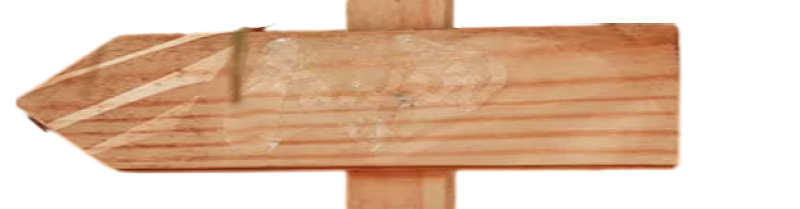
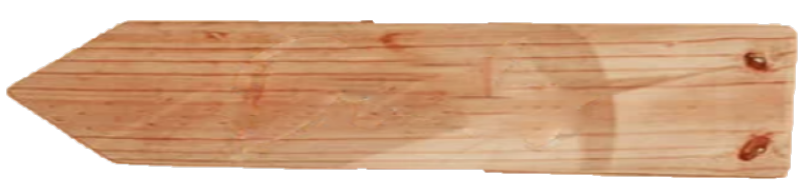
Home:complete UI ,,, FloatedImages:init and complete and add it to Home

diff --git a/src/components/Home.tsx b/src/components/Home.tsx
@@ -1,36 +1,55 @@
 // images
 import BG from '../assets/images/Root/mainBG2.png'
-import signsStand from '../assets/images/Root/woodenHolder.png'
+import signsStand from '../assets/images/Root/woodenHolder2.png'
 import signsArrow1 from '../assets/images/Root/signArrow1.png'
 import signsArrow2 from '../assets/images/Root/signArrow2.png'
-import signsArrow3 from '../assets/images/Root/signArrow3.png'
-import signsArrow4 from '../assets/images/Root/signArrow4.png'
+import signArrowTop from '../assets/images/Root/signArrow3.png'
+import FloatedItems from './FloatedItems'
+
 
 const Home = () => {
     return (
         <>
-        {/* background */}
-            <img className='fixed h-screen w-screen blur-sm' src={BG} alt="BG" />
-        {/*_____background____ */}
 
-        {/* Arrows Part */}
+{/* background */}
+            <img className='fixed h-screen z-0 w-screen blur-sm' src={BG} alt="BG" />
+{/*_____background____ */}
+
+{/* Arrows Part */}
             <main className='relative w-screen h-screen'>
                 <section>
-        {/* stand */}
-                    <img className='absolute z-10 w-1/2 h-full left-1/4 right-1/4' src={signsStand} alt="signsStand" />
+{/* stand */}
+                    <img className='absolute z-20 w-1/2 h-full left-1/4 right-1/4' src={signsStand} alt="signsStand" />
                 </section>
-        {/* ____stand___ */}
-        {/* Arrows */}
-                <section className='relative grid place-items-center z-20 w-full h-1/4'>
+{/* ____stand___ */}
+{/* Arrows */}
+                <section className='relative grid place-items-center z-30 w-full h-1/6'>
+                    <img className='absolute w-[800px] md:h-full h-full top-0 ' src={signArrowTop} alt="signsArrow1" />
+                    <p className='absolute md:text-5xl lg:text-2xl xl text-2xl drop-shadow-3xl text-center h-1/3 top-4 text_shadow  '>خوش اومدی <br/>کدوم قسمت از هنر ما رو میخای ببینی؟</p>
+                </section>
+                <section className='relative grid place-items-center z-30 w-full h-1/6 top-1/6'>
                     <img className='absolute w-[800px] md:h-full h-2/3 ' src={signsArrow1} alt="signsArrow1" />
-                    <p className='absolute '>دیزاین با بادکنک</p>
+                    <p className='absolute md:text-6xl lg:text-4xl text-3xl drop-shadow-3xl text_shadow '>دیزاین با بادکنک</p>
                 </section>
-                <section>دیزاین با گل</section>
-                <section>میوه آرایی و طراحی میوه</section>
-                <section>نظرات و تماس با ما</section>
-        {/* ____Arrows___ */}
-        {/*______Arrows Part______ */}
+                <section className='relative grid place-items-center z-30 w-full h-1/6 top-2/6'>
+                    <img className='absolute w-[800px] md:h-full h-2/3 ' src={signsArrow2} alt="signsArrow2" />
+                    <p className='absolute md:text-6xl lg:text-4xl text-3xl drop-shadow-3xl text_shadow '>دیزاین با گل و گل آرایی</p>
+                </section>
+                <section className='relative grid place-items-center z-30 w-full h-1/6 top-3/6'>
+                    <img className='absolute w-[800px] md:h-full h-2/3 ' src={signsArrow1} alt="signsArrow2" />
+                    <p className='absolute md:text-6xl lg:text-4xl text-3xl drop-shadow-3xl text_shadow '>میوه آرایی و طراحی میوه</p>
+                </section>
+                <section className='relative grid place-items-center z-30 w-full h-1/6 top-1/6'>
+                    <img className='absolute w-[800px] md:h-full h-2/3 ' src={signsArrow2} alt="signsArrow2" />
+                    <p className='absolute md:text-6xl lg:text-4xl text-3xl drop-shadow-3xl text_shadow '>نظرات و تماس با ما</p>
+                </section>
+  
+{/* ____Arrows___ */}
+{/*______Arrows Part______ */}
             </main>
+{/* Floated Items Part */}
+            <FloatedItems/>
+{/*__________Floated Items Part_______*/}
         </>
     );
 };

diff --git a/src/index.css b/src/index.css
@@ -15,11 +15,11 @@
 
     }}
     @layer utilities {
-        /* animations _______ */
+/* animations _______ */
 
-        @keyframes wobble {
-            0% {
-                transform:translate(0);
+@keyframes wobble {
+    0% {
+        transform:translate(0);
             }
             20% {
                 transform:translate(5px,-5px);
@@ -43,8 +43,28 @@
             animation: wobble 6s ease-in-out infinite forwards;
             animation-delay: 0.5s;
         }
+        @keyframes slide-in-bottom {
+			
+            0% {
+                transform:translateY(-100vh)rotate(0deg);
+            }
+            100% {
+                transform:translateY(100vh)rotate(360deg);
+            }
+        }
+        .floated_up_down{
+        animation: slide-in-bottom 8s linear 0s infinite normal forwards;
+            }
+        .floated_down_up{
+        animation: slide-in-bottom 8s linear 0s infinite reverse forwards;
+            }
+        .floated_down_up_delay{
+        animation: slide-in-bottom 8s linear 1.5s infinite reverse forwards;
+            }
+/* ________animations _______ */
 
-        /* Custom classses */
+
+/* Custom classes */
         .Nav_menu{
             position: fixed ;
             display:flex;
@@ -77,6 +97,10 @@
             animation-delay: 1s;
             cursor:pointer;
         }
+        .text_shadow{
+            text-shadow:0 0 3px #000, -3px 3px 5px #fff ;
+        }
+/*______ Custom classes________ */
         
 
 }

diff --git a/src/components/FloatedItems.tsx b/src/components/FloatedItems.tsx
@@ -1,0 +1,21 @@
+import balloon from '../assets/images/balloon/floated_three_balloons_compressed.png'
+import flower1 from '../assets/images/flower designs/flower_1.png'
+import flower2 from '../assets/images/flower designs/flower_3.png'
+import fruit1 from '../assets/images/fruit design/floated_fruit_compressed.png'
+import fruit2 from '../assets/images/fruit design/floated_fruit_compressed2.png'
+
+
+const FloatedItems = () => {
+    return (
+        <div className=' fixed bottom-0 left-0 z-10 h-screen w-screen'>
+            <img className=' blur-[2.5px] absolute left-0 floated_down_up w-full md:w-1/2' src={balloon} alt="balloon" />
+            <img className=' blur-[2.5px] floated_down_up_delay' src={flower1} alt="flower1" />
+            <img className=' blur-[2.5px] absolute floated_up_down right-2/4' src={flower2} alt="flower2" />
+            <img className=' blur-[2.5px] absolute floated_up_down' src={fruit1} alt="fruit1" />
+            <img className=' blur-[2.5px] absolute floated_up_down left-0' src={fruit2} alt="fruit2" />
+
+        </div>
+    );
+};
+
+export default FloatedItems;

diff --git a/src/components/Navbar.tsx b/src/components/Navbar.tsx
@@ -23,7 +23,7 @@ const Navbar = () => {
 
         return (
             <nav className="">
-            <section onClick={closeHandler} className="fixed z-[100] bottom-0 right-0 cursor-pointer w-1/5">
+            <section onClick={closeHandler} className="fixed z-[100] bottom-0 right-0 cursor-pointer w-1/5 h-1/6">
                     <img className="fixed wobble drop-shadow-4xl bottom-[-50px] right-[-45px] w-[170px] " src={balloon} alt="balloon" />
                     <p className="fixed wobble text-2xl  bottom-[70px]  right-[35px]">فهرست</p>
             </section>

diff --git a/index.html b/index.html
@@ -8,6 +8,7 @@
     <link rel="preconnect" href="https://fonts.googleapis.com">
     <link rel="preconnect" href="https://fonts.gstatic.com" crossorigin>
     <link href="https://fonts.googleapis.com/css2?family=Amiri&family=Delius&family=Noto+Naskh+Arabic&display=swap" rel="stylesheet">
+    <meta name="author" content="Ali_Nd">
     <!-- ______ -->
     <title>Design Land</title>
   </head>

diff --git a/tailwind.config.js b/tailwind.config.js
@@ -29,8 +29,10 @@ export default {
       },
       dropShadow:{
         "4xl":"-5px 5px 3px #000",
-        "text":"0 0 3px #fff"
+        "3xl":"0 0 3px #fff,-2px 2px 3px #000 ",
+        "text":"0 0 3px #fff,-2px 2px 3px #000 "
       },
+      
      }
   },
   plugins: [],
